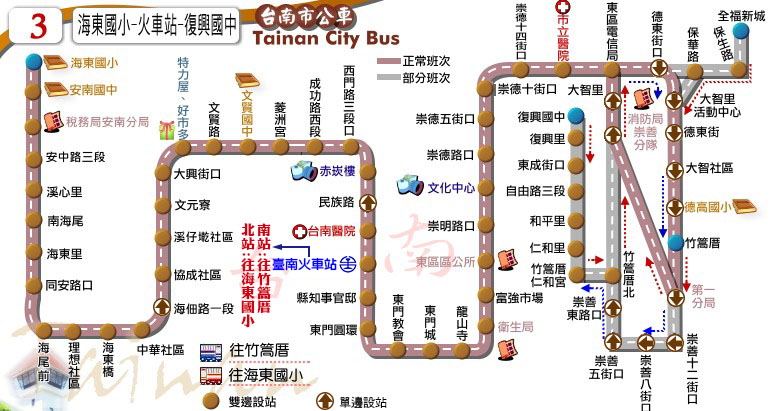
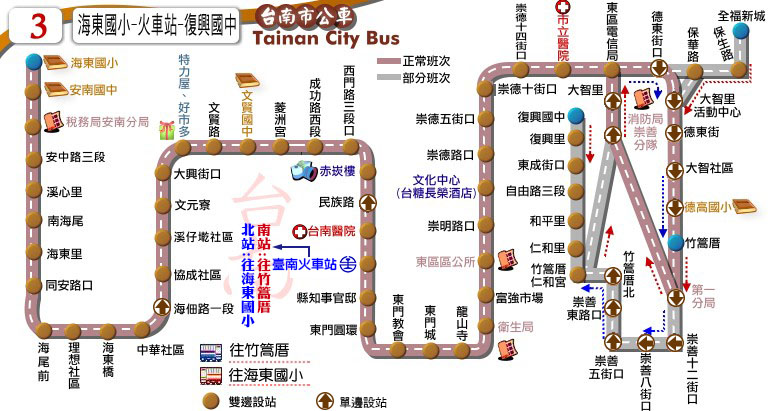
站名更動：3、H62(「文化中心」變更為「文化中心(台糖長榮酒店)」、77-1(「安億橋停車場」變更為「安平漁人碼頭」)

diff --git a/route/fare_and_time/city_bus_3.js b/route/fare_and_time/city_bus_3.js
@@ -1,7 +1,7 @@
 // format = [time at the start stop] or
 // [time, other] or
 // [time, start_stop, end_stop, other]
-city_bus_3_main_stop_name = ["海東國小","海東橋","特力屋、<br />好市多","赤崁樓","臺南<br />火車站","文化中心","市立醫院","竹篙厝","全福新城","復興國中"];
+city_bus_3_main_stop_name = ["海東國小","海東橋","特力屋、<br />好市多","赤崁樓","臺南<br />火車站","文化中心(台<br />糖長榮酒店)","市立醫院","竹篙厝","全福新城","復興國中"];
 city_bus_3_main_stop_time_consume = [0, 10, 15, 25, 35, 50, 58, 65, 65, 75];
 city_bus_3_important_stop = [0, 4, 7, 8]; // 海東國小, 臺南火車站, 竹篙厝, 全福新城
 var start_stop = 0; // 海東國小
@@ -21,7 +21,7 @@ var return_start = 1; // 竹篙厝
 var return_end = 9; // 海東國小
 var return_skip = 2; // 復興國中
 var return_tra_tainan = 5; // 臺南火車站
-city_bus_3_main_stop_name_return = ["全福新城","竹篙厝","復興國中","市立醫院","文化中心","臺南<br />火車站","赤崁樓","特力屋、<br />好市多","海東橋","海東國小"];
+city_bus_3_main_stop_name_return = ["全福新城","竹篙厝","復興國中","市立醫院","文化中心(台<br />糖長榮酒店)","臺南<br />火車站","赤崁樓","特力屋、<br />好市多","海東橋","海東國小"];
 city_bus_3_main_stop_time_consume_return = [0, 5, 20, 12, 20, 35, 40, 50, 55, 65];
 city_bus_3_important_stop_return = [0, 1, 5, 9]; // 全福新城, 竹篙厝, 臺南火車站, 海東國小
 city_bus_3_time_return = [["06:00",return_start,return_end,['W',return_skip]],["06:00",return_start,return_end,[[return_skip+1,20]]],["06:30",return_start,return_end,['W',return_skip]],

diff --git a/route/fare_and_time/hsr_shuttle_h62.js b/route/fare_and_time/hsr_shuttle_h62.js
@@ -1,7 +1,7 @@
 // format = [time at the start stop] or
 // [time, other] or
 // [time, start_stop, end_stop, other]
-hsr_shuttle_h62_main_stop_name = ["桂田酒店","奇美醫院","兵仔市","南紡<br />購物中心","文化中心","富農街口","仁德交流道","義林一街口","高鐵臺南站"];
+hsr_shuttle_h62_main_stop_name = ["桂田酒店","奇美醫院","兵仔市","南紡<br />購物中心","文化中心(台<br />糖長榮酒店)","富農街口","仁德交流道","義林一街口","高鐵臺南站"];
 hsr_shuttle_h62_main_stop_time_consume = [0, 15, 23, 27, 40, 47, 50, 55, 75];
 hsr_shuttle_h62_important_stop = [0, 1, 3, 6, 8]; // 桂田酒店, 奇美醫院, 南紡購物中心, 仁德交流道, 高鐵臺南站
 var start_stop = 1; // 奇美醫院
